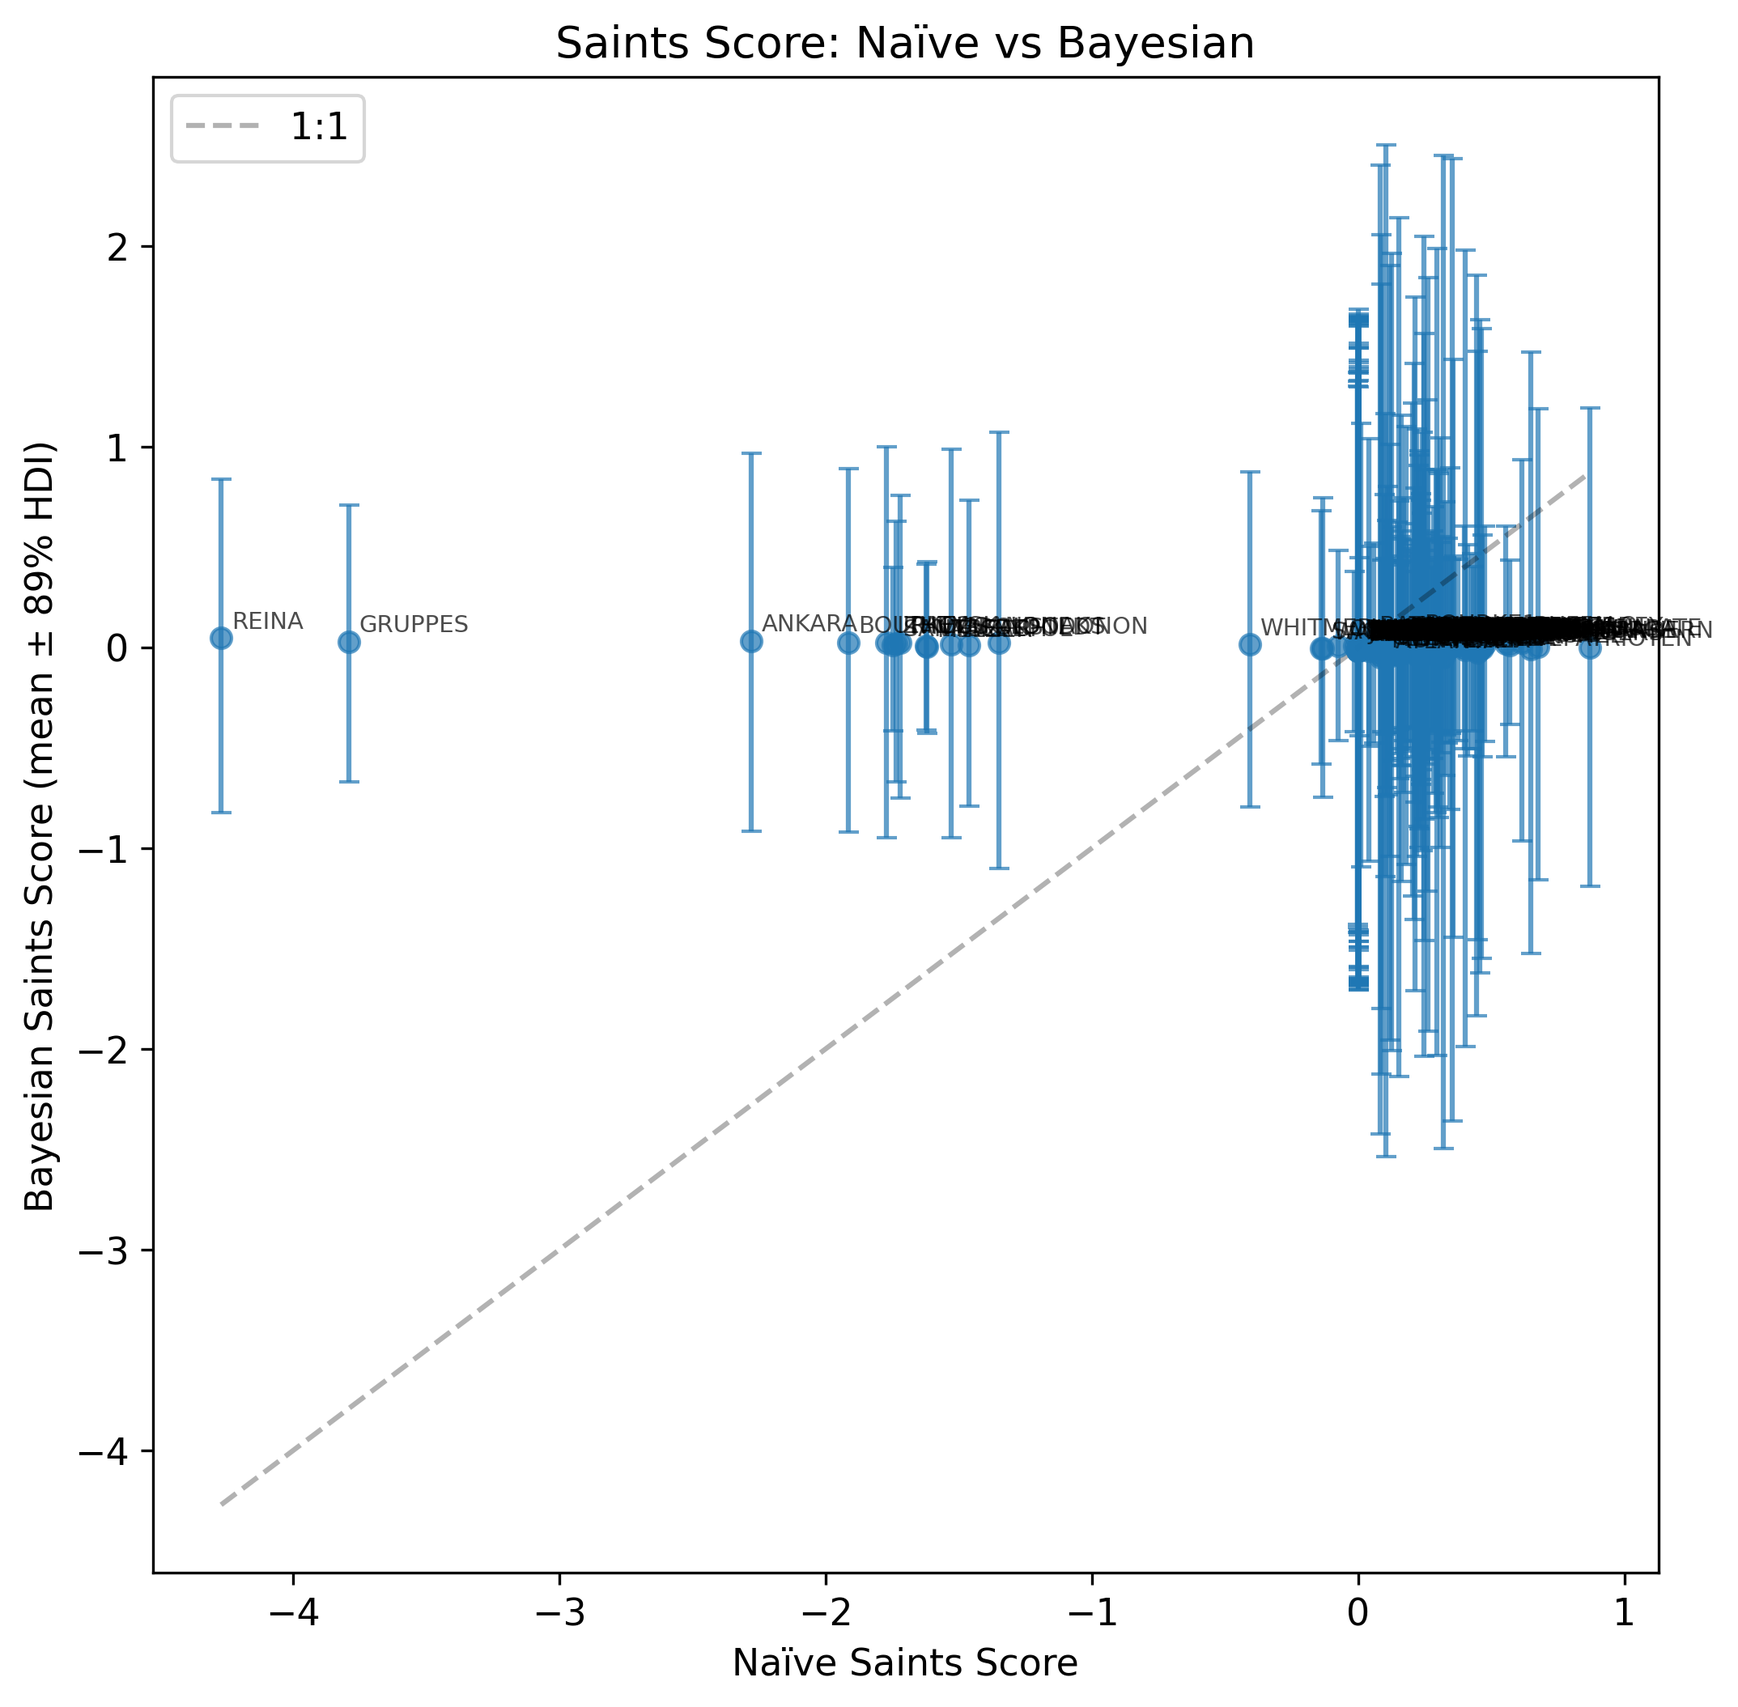
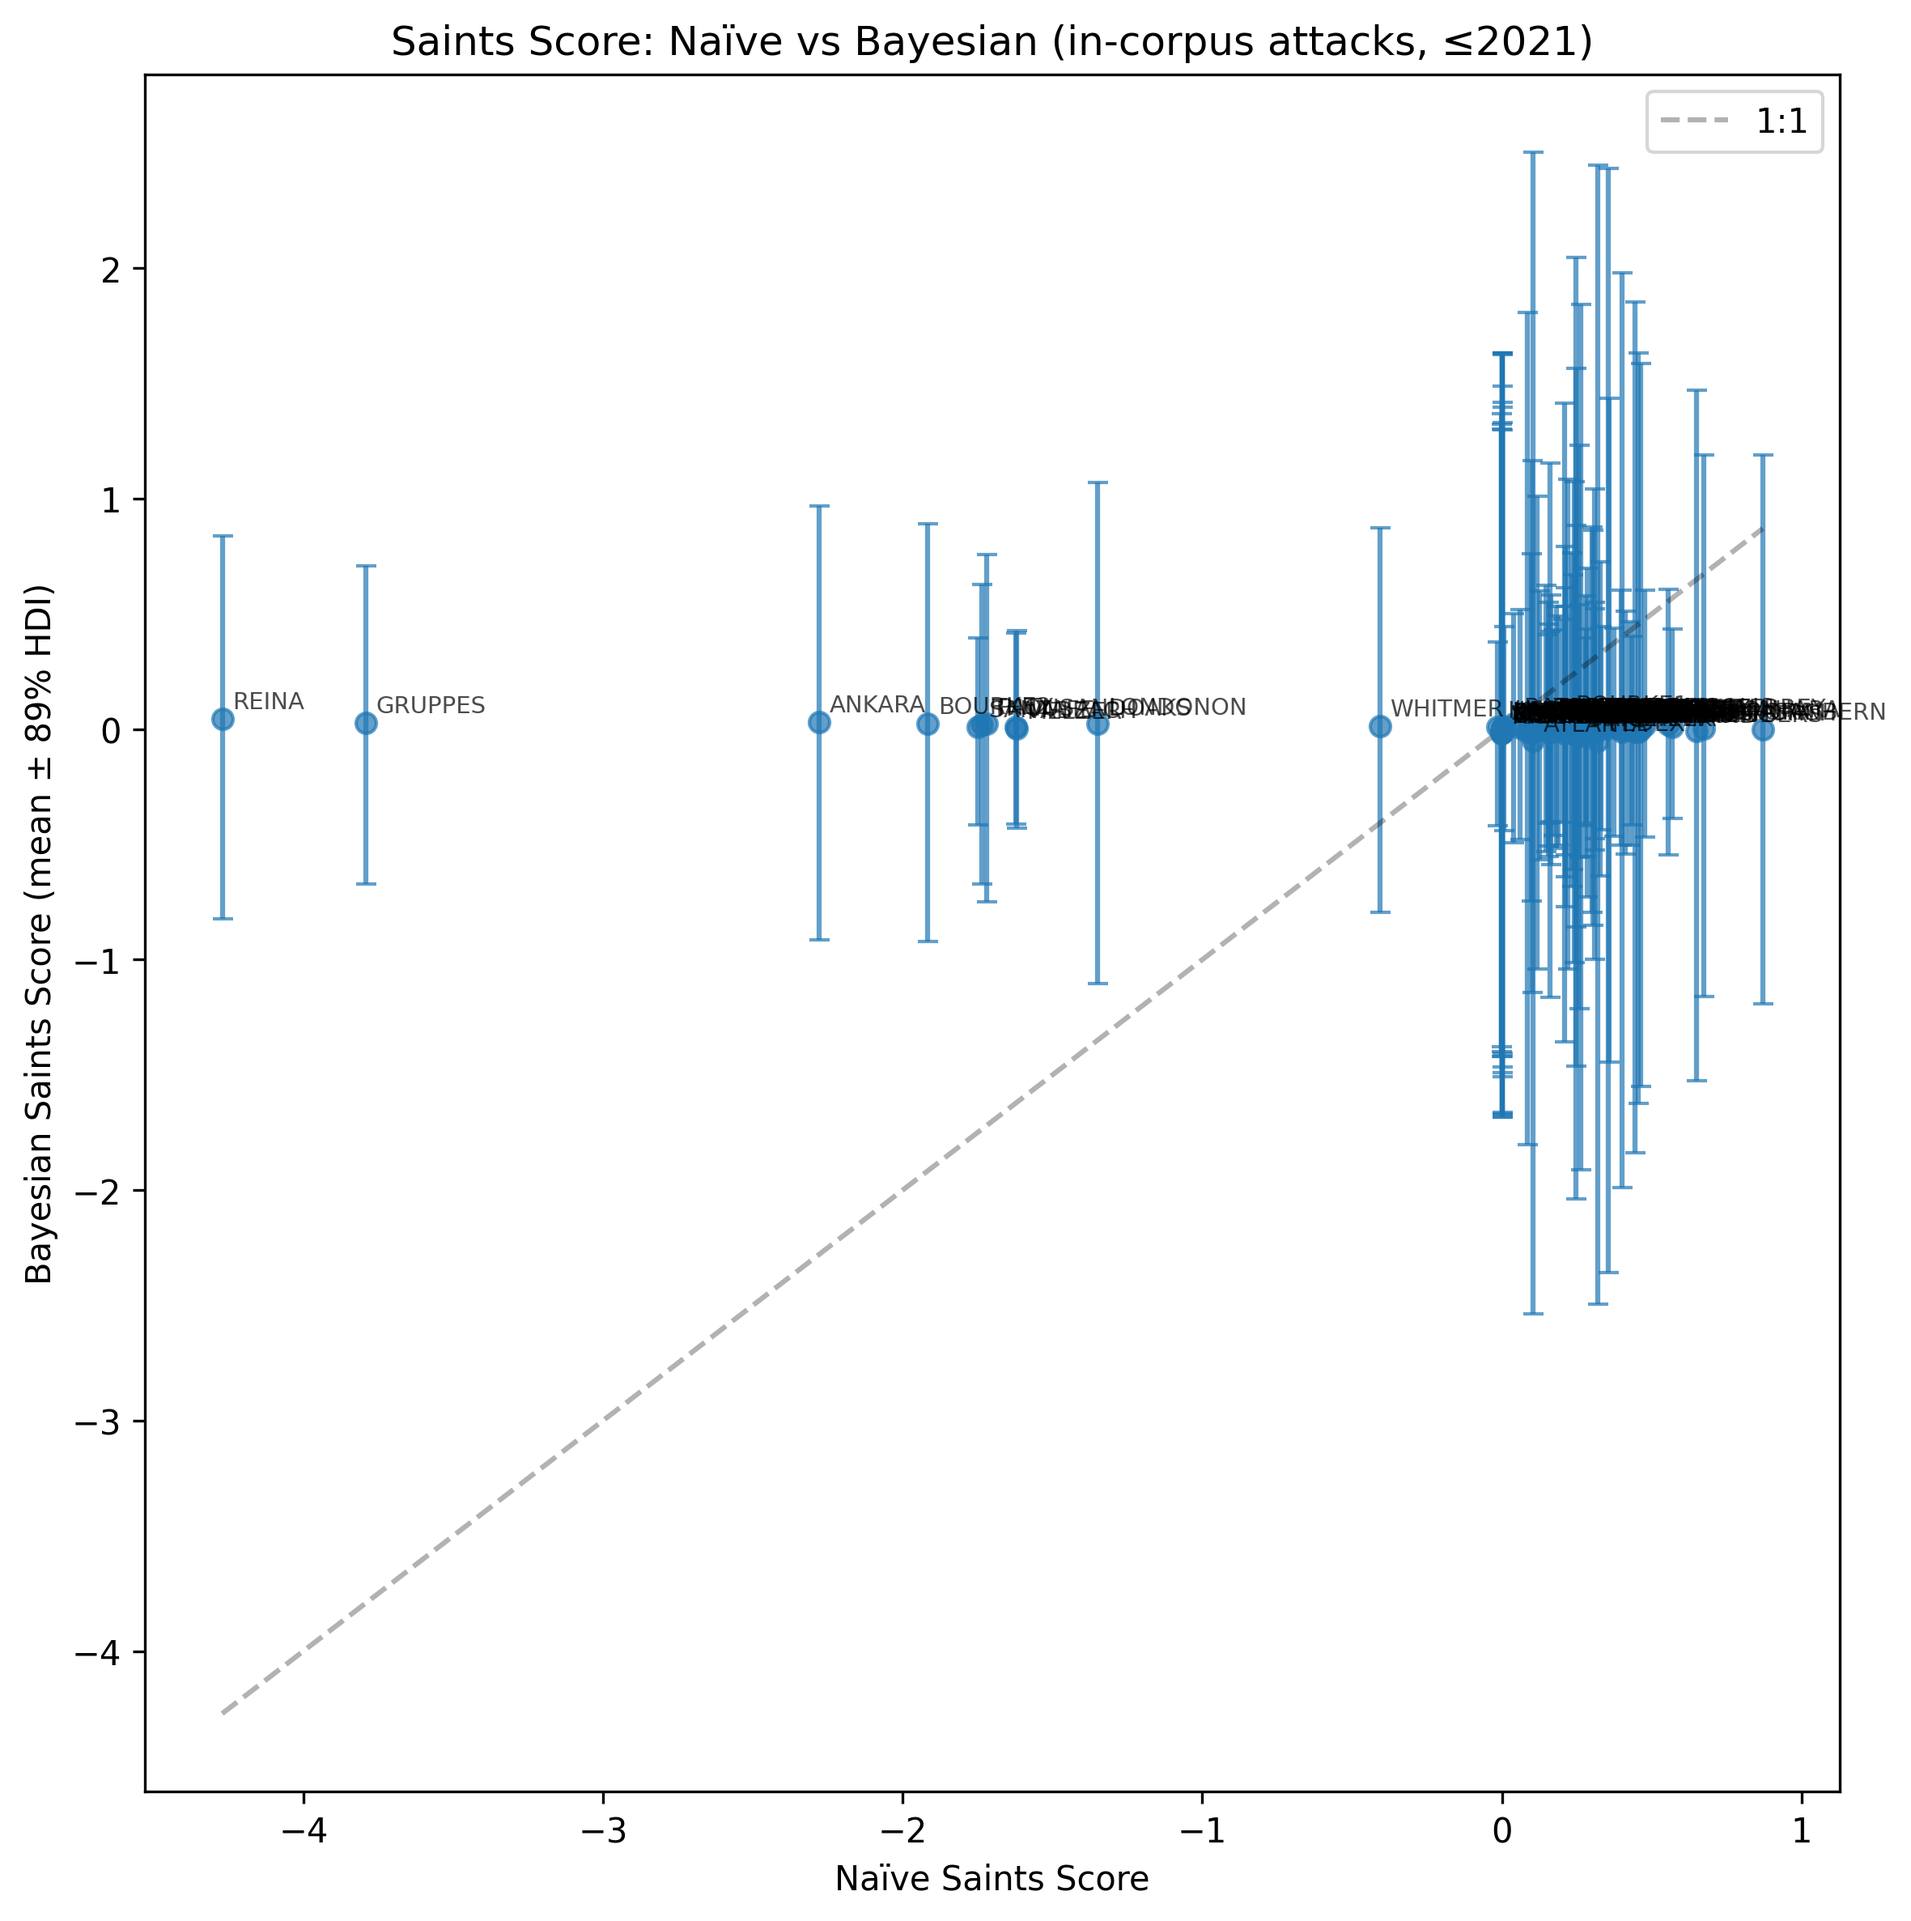
Filter saints_score_comparison.png to in-corpus attacks
- scripts/make_descriptive_figures.py: add saints_score_comparison() that
  regenerates the naïve-vs-Bayesian scatter restricted to event_year <=
  CORPUS_END_YEAR (2021), matching the other descriptive figures.
- Regenerated out/figures/saints_score_comparison.png.
- paper draft/main.tex: caption updated to note the corpus-window filter.

diff --git a/scripts/make_descriptive_figures.py b/scripts/make_descriptive_figures.py
@@ -168,8 +168,58 @@ def saints_score_ranked(top_n: int = 30) -> Path:
     return out
 
 
+def saints_score_comparison() -> Path:
+    naive = pl.read_csv(ROOT / "out" / "scores" / "saints_naive.csv")
+    bayes = pl.read_csv(ROOT / "out" / "scores" / "saints_bayes.csv")
+    cases = pl.read_csv(ROOT / "out" / "cases.csv", infer_schema_length=10000)
+
+    in_corpus_ids = set(
+        cases.filter(pl.col("event_year") <= CORPUS_END_YEAR)["case_id"].to_list()
+    )
+    merged = (
+        naive.join(bayes, on="attacker_id", how="inner")
+        .filter(pl.col("attacker_id").is_in(in_corpus_ids))
+        .drop_nulls(["saints_naive", "saints_bayes_mean"])
+    )
+
+    x = merged["saints_naive"].to_numpy()
+    y = merged["saints_bayes_mean"].to_numpy()
+    lo = merged["saints_bayes_hdi_lo"].to_numpy()
+    hi = merged["saints_bayes_hdi_hi"].to_numpy()
+
+    fig, ax = plt.subplots(figsize=(8, 8))
+    ax.errorbar(x, y, yerr=[y - lo, hi - y], fmt="o", capsize=3, alpha=0.7)
+
+    for i, name in enumerate(merged["attacker_id"].to_list()):
+        short = name.split("-")[-1] if "-" in name else name
+        ax.annotate(
+            short,
+            (x[i], y[i]),
+            fontsize=7,
+            alpha=0.7,
+            xytext=(3, 3),
+            textcoords="offset points",
+        )
+
+    ax.set_xlabel("Naïve Saints Score")
+    ax.set_ylabel("Bayesian Saints Score (mean ± 89% HDI)")
+    ax.set_title("Saints Score: Naïve vs Bayesian (in-corpus attacks, ≤2021)")
+
+    lims = [min(x.min(), y.min()), max(x.max(), y.max())]
+    ax.plot(lims, lims, "k--", alpha=0.3, label="1:1")
+    ax.legend()
+
+    out = OUT / "saints_score_comparison.png"
+    fig.tight_layout()
+    fig.savefig(out)
+    plt.close(fig)
+    return out
+
+
 if __name__ == "__main__":
     p1 = dataset_overview()
     p2 = saints_score_ranked(top_n=30)
+    p3 = saints_score_comparison()
     print(f"Wrote {p1}")
     print(f"Wrote {p2}")
+    print(f"Wrote {p3}")

diff --git a/paper draft/main.tex b/paper draft/main.tex
@@ -325,7 +325,7 @@ The Bayesian Saints Score, by contrast, shrinks all estimates toward zero, refle
 \begin{figure}[htbp]
     \centering
     \includegraphics[width=0.85\linewidth]{figures/saints_score_comparison.png}
-    \caption{Comparison of na\"ive and Bayesian Saints Scores. Each point is an attacker; vertical bars show 89\% HDI. The Bayesian model shrinks estimates toward zero, reflecting genuine uncertainty in the indicators. The dashed line marks 1:1 correspondence.}
+    \caption{Comparison of na\"ive and Bayesian Saints Scores, restricted to attacks occurring on or before the 2021 corpus end date. Each point is an attacker; vertical bars show 89\% HDI. The Bayesian model shrinks estimates toward zero, reflecting genuine uncertainty in the indicators. The dashed line marks 1:1 correspondence.}
     \label{fig:comparison}
 \end{figure}
 
